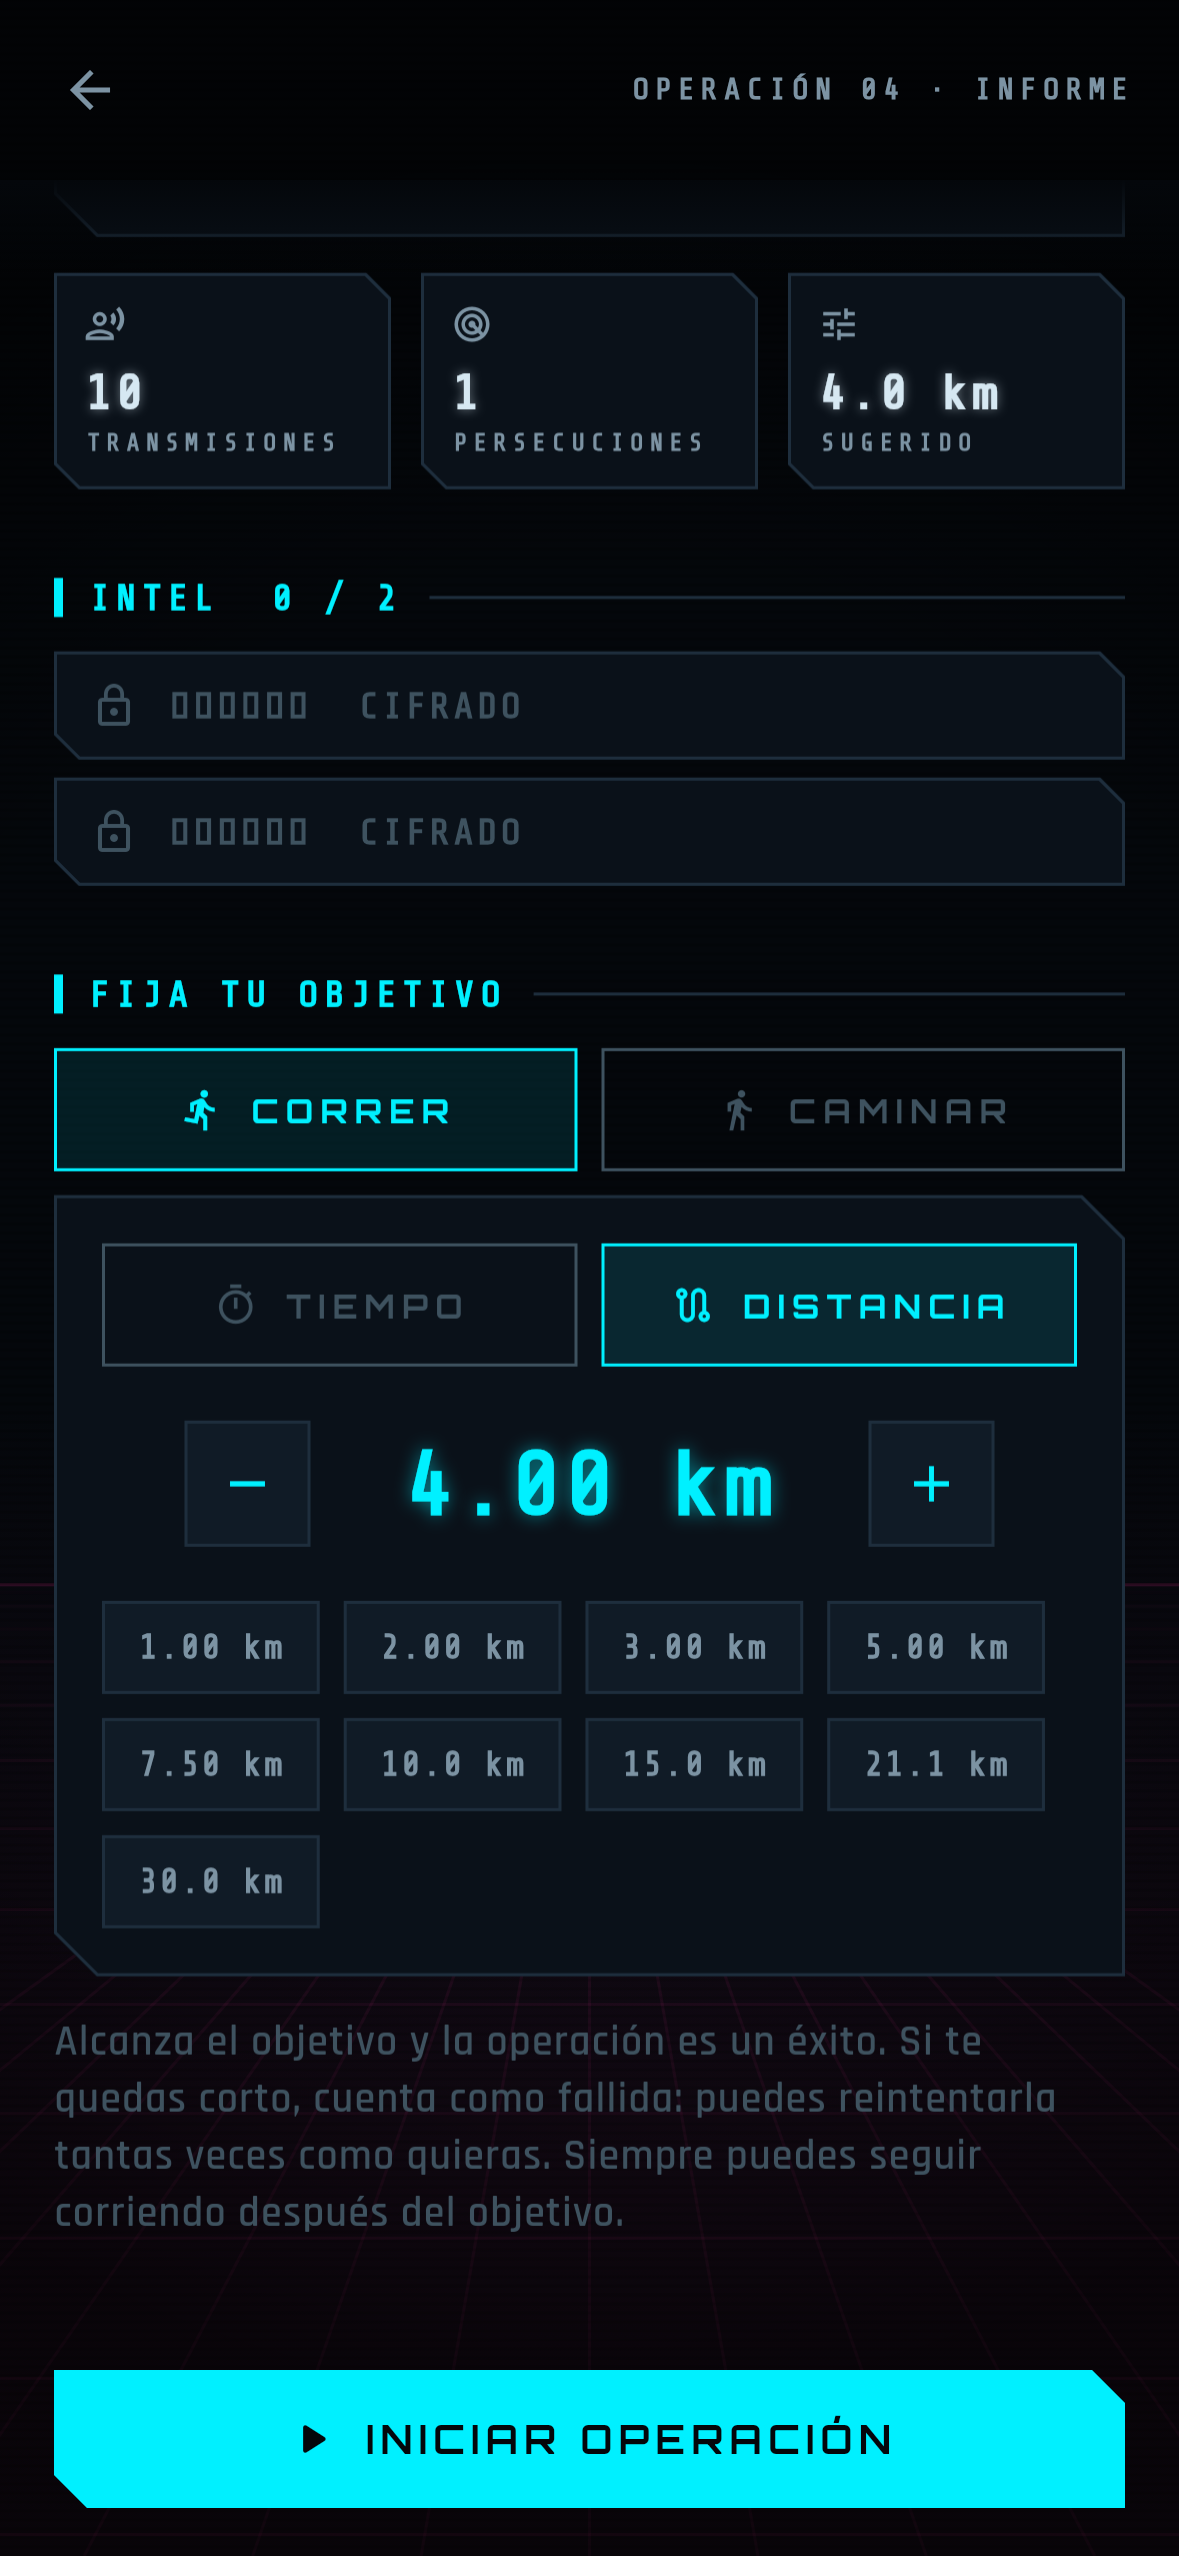
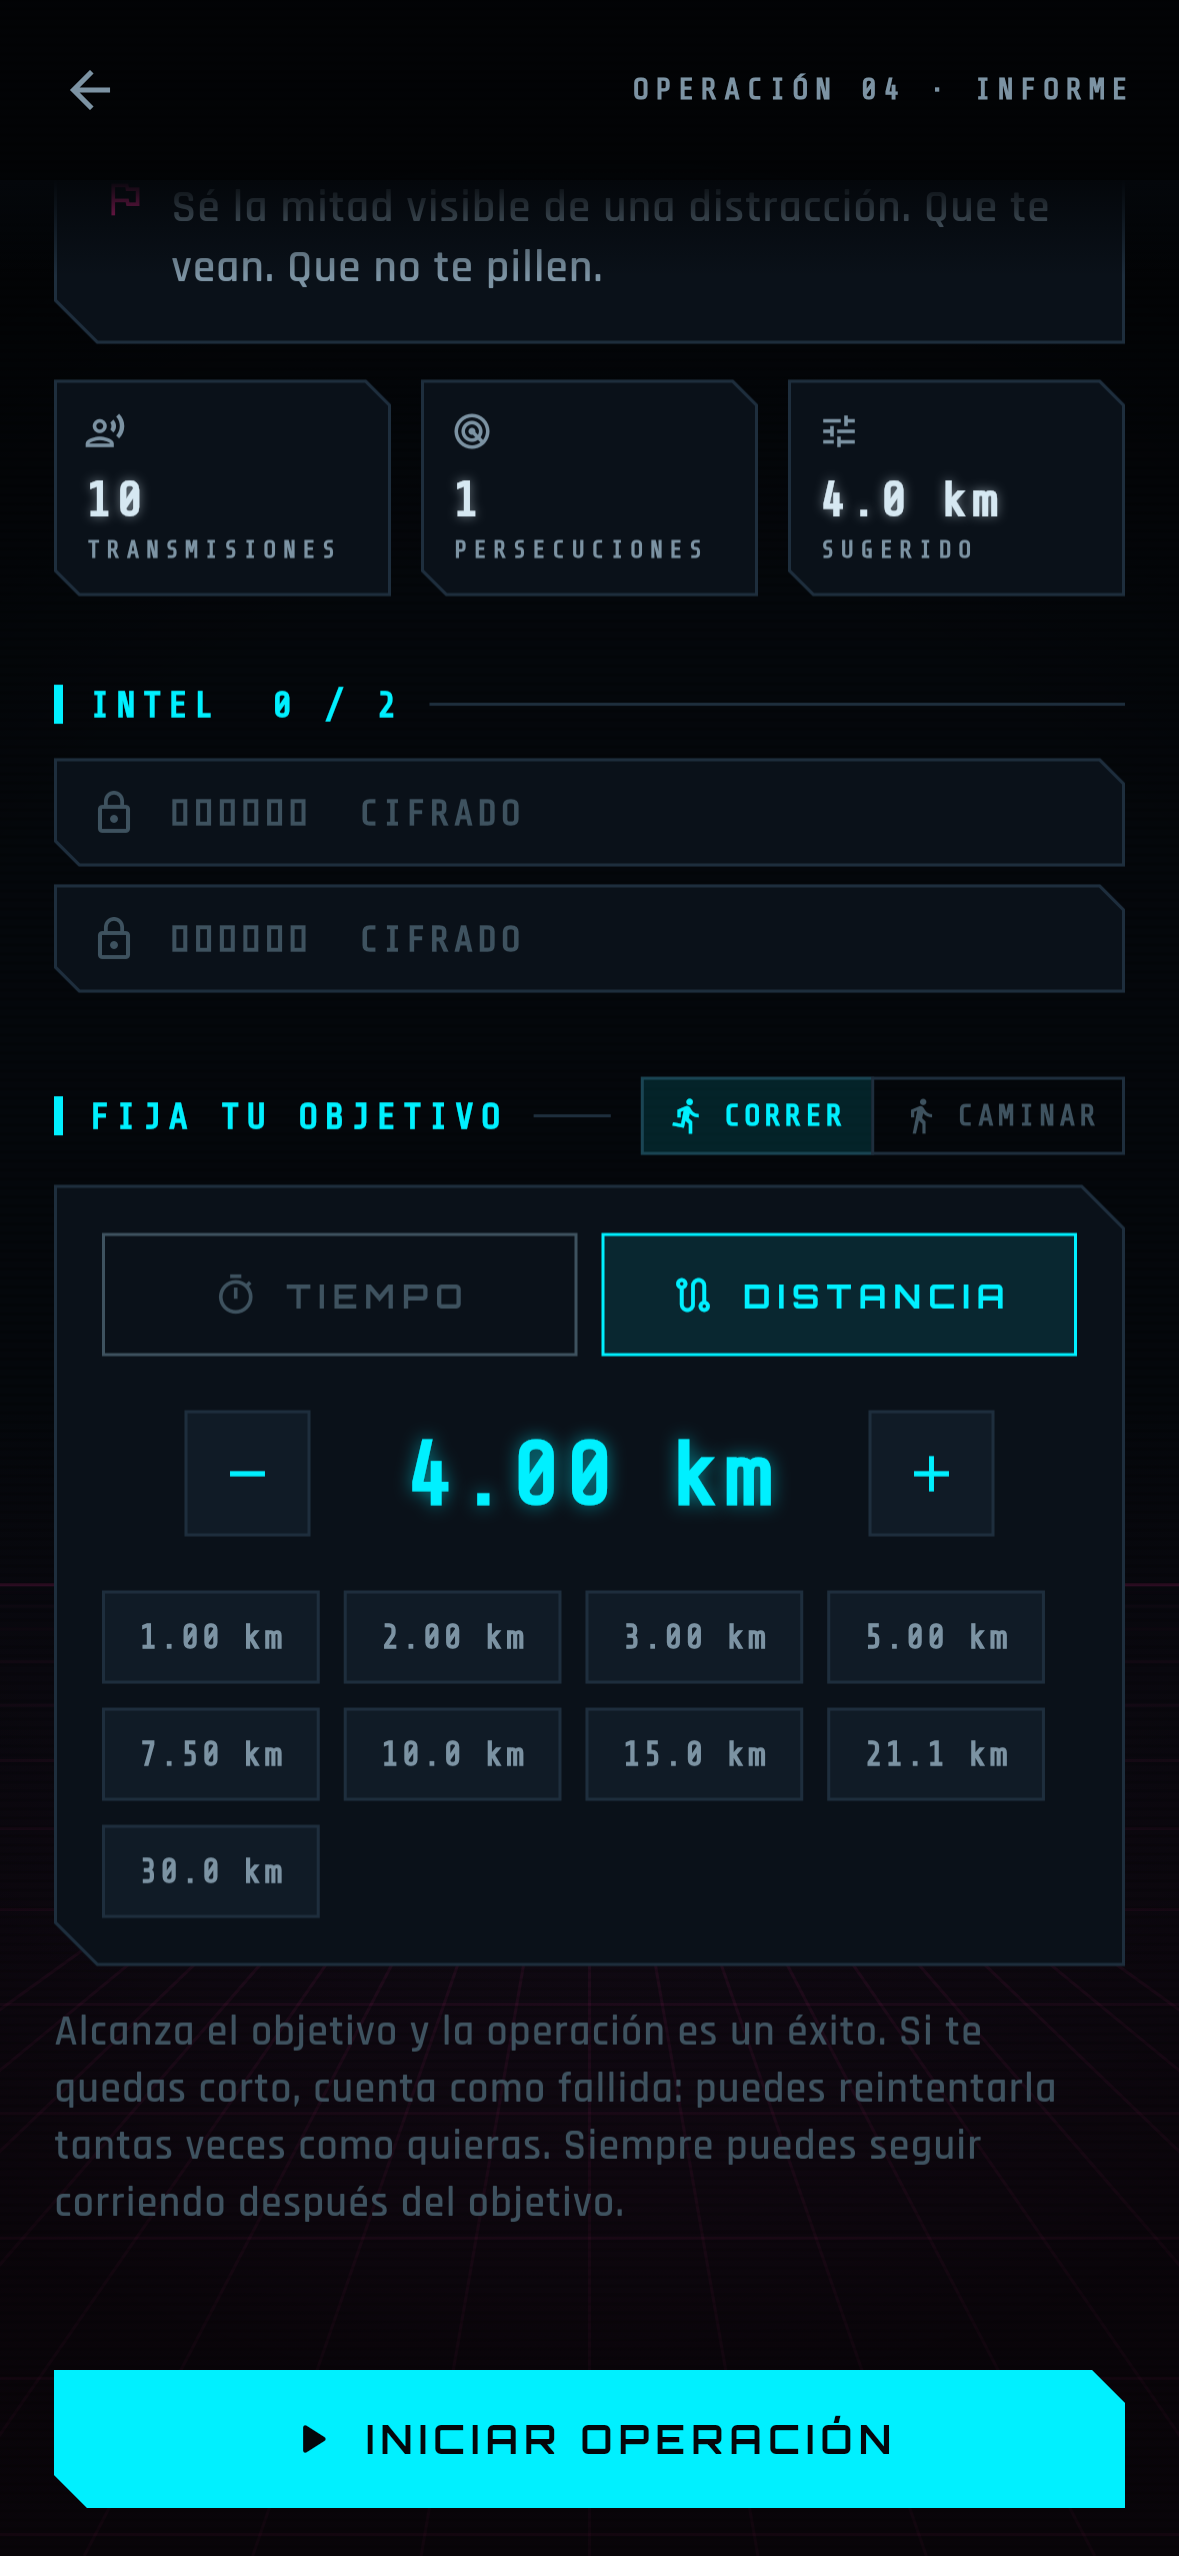
Update the store listing and screenshots for 0.8.0

diff --git a/tool/screenshots/capture_test.dart b/tool/screenshots/capture_test.dart
@@ -40,6 +40,8 @@ import 'package:sprawl_run/screens/missions_screen.dart';
 import 'package:sprawl_run/screens/run_detail_screen.dart';
 import 'package:sprawl_run/screens/run_screen.dart';
 import 'package:sprawl_run/screens/run_summary_screen.dart';
+import 'package:sprawl_run/screens/theme_editor_screen.dart';
+import 'package:sprawl_run/theme/theme_draft.dart';
 import 'package:sprawl_run/services/run_engine.dart';
 import 'package:sprawl_run/state/app_state.dart';
 import 'package:sprawl_run/widgets/unlock_reveal.dart';
@@ -118,6 +120,7 @@ const Map<String, int> _storeOrder = {
   'history': 6,
   'achievements': 7,
   'codex': 8,
+  'theme-editor': 9,
 };
 
 void main() {
@@ -144,6 +147,14 @@ void _shots() {
     final state = await seedShowcase(tester, language: _storyLanguage);
     await _pump(tester, const HomeShell(), state);
     await _shoot(tester, 'dashboard');
+  });
+
+  testWidgets('theme editor', (tester) async {
+    final state = await seedShowcase(tester, language: _storyLanguage);
+    final synth = state.themes.singleWhere((t) => t.id == 'synth');
+    final draft = ThemeDraft(base: synth.palette, name: l10n.themeCopyName(synth.nameIn(state.locale.languageCode)));
+    await _pump(tester, ThemeEditorScreen(draft: draft), state);
+    await _shoot(tester, 'theme-editor');
   });
 
   testWidgets('mission brief', (tester) async {

diff --git a/README.md b/README.md
@@ -204,7 +204,11 @@ next October if you do not finish. One switch in Settings turns it all off.
 
 **Running**
 - GPS tracking that keeps going with the screen off, or with the app swiped away, with
-  auto-pause; a run the app dies in is kept and offered back
+  auto-pause; a run the phone kills can be resumed where it stopped for 30 minutes,
+  and is kept either way
+- Asks once, before a run, to be left out of battery optimisation, because some phones'
+  battery managers kill a running app regardless. Never required; Settings shows where
+  it stands
 - Pause, resume or stop from the notification, without unlocking into the app;
   a run left paused is brought up after 15, 30 and 60 minutes, then left alone
 - A time or distance target per run, and free runs with no story at all
@@ -213,7 +217,8 @@ next October if you do not finish. One switch in Settings turns it all off.
   streak, earn their own achievements and set no pace record
 - Kilometre (or mile) splits read out with the split and total time — on a mission they
   wait for the scene to end; switchable off
-- Live HUD: distance, pace, elapsed, goal ring, and the pursuit bar
+- Live HUD: distance, pace, elapsed, goal ring, and the pursuit bar, with a quiet note
+  when the GPS has had no signal for 30 seconds
 - Calories from the ACSM metabolic equations and your body mass
 - Optional step counting from the phone's own step sensor: steps and cadence per run,
   and moving time that keeps counting when the GPS drops out. Off by default, since it
